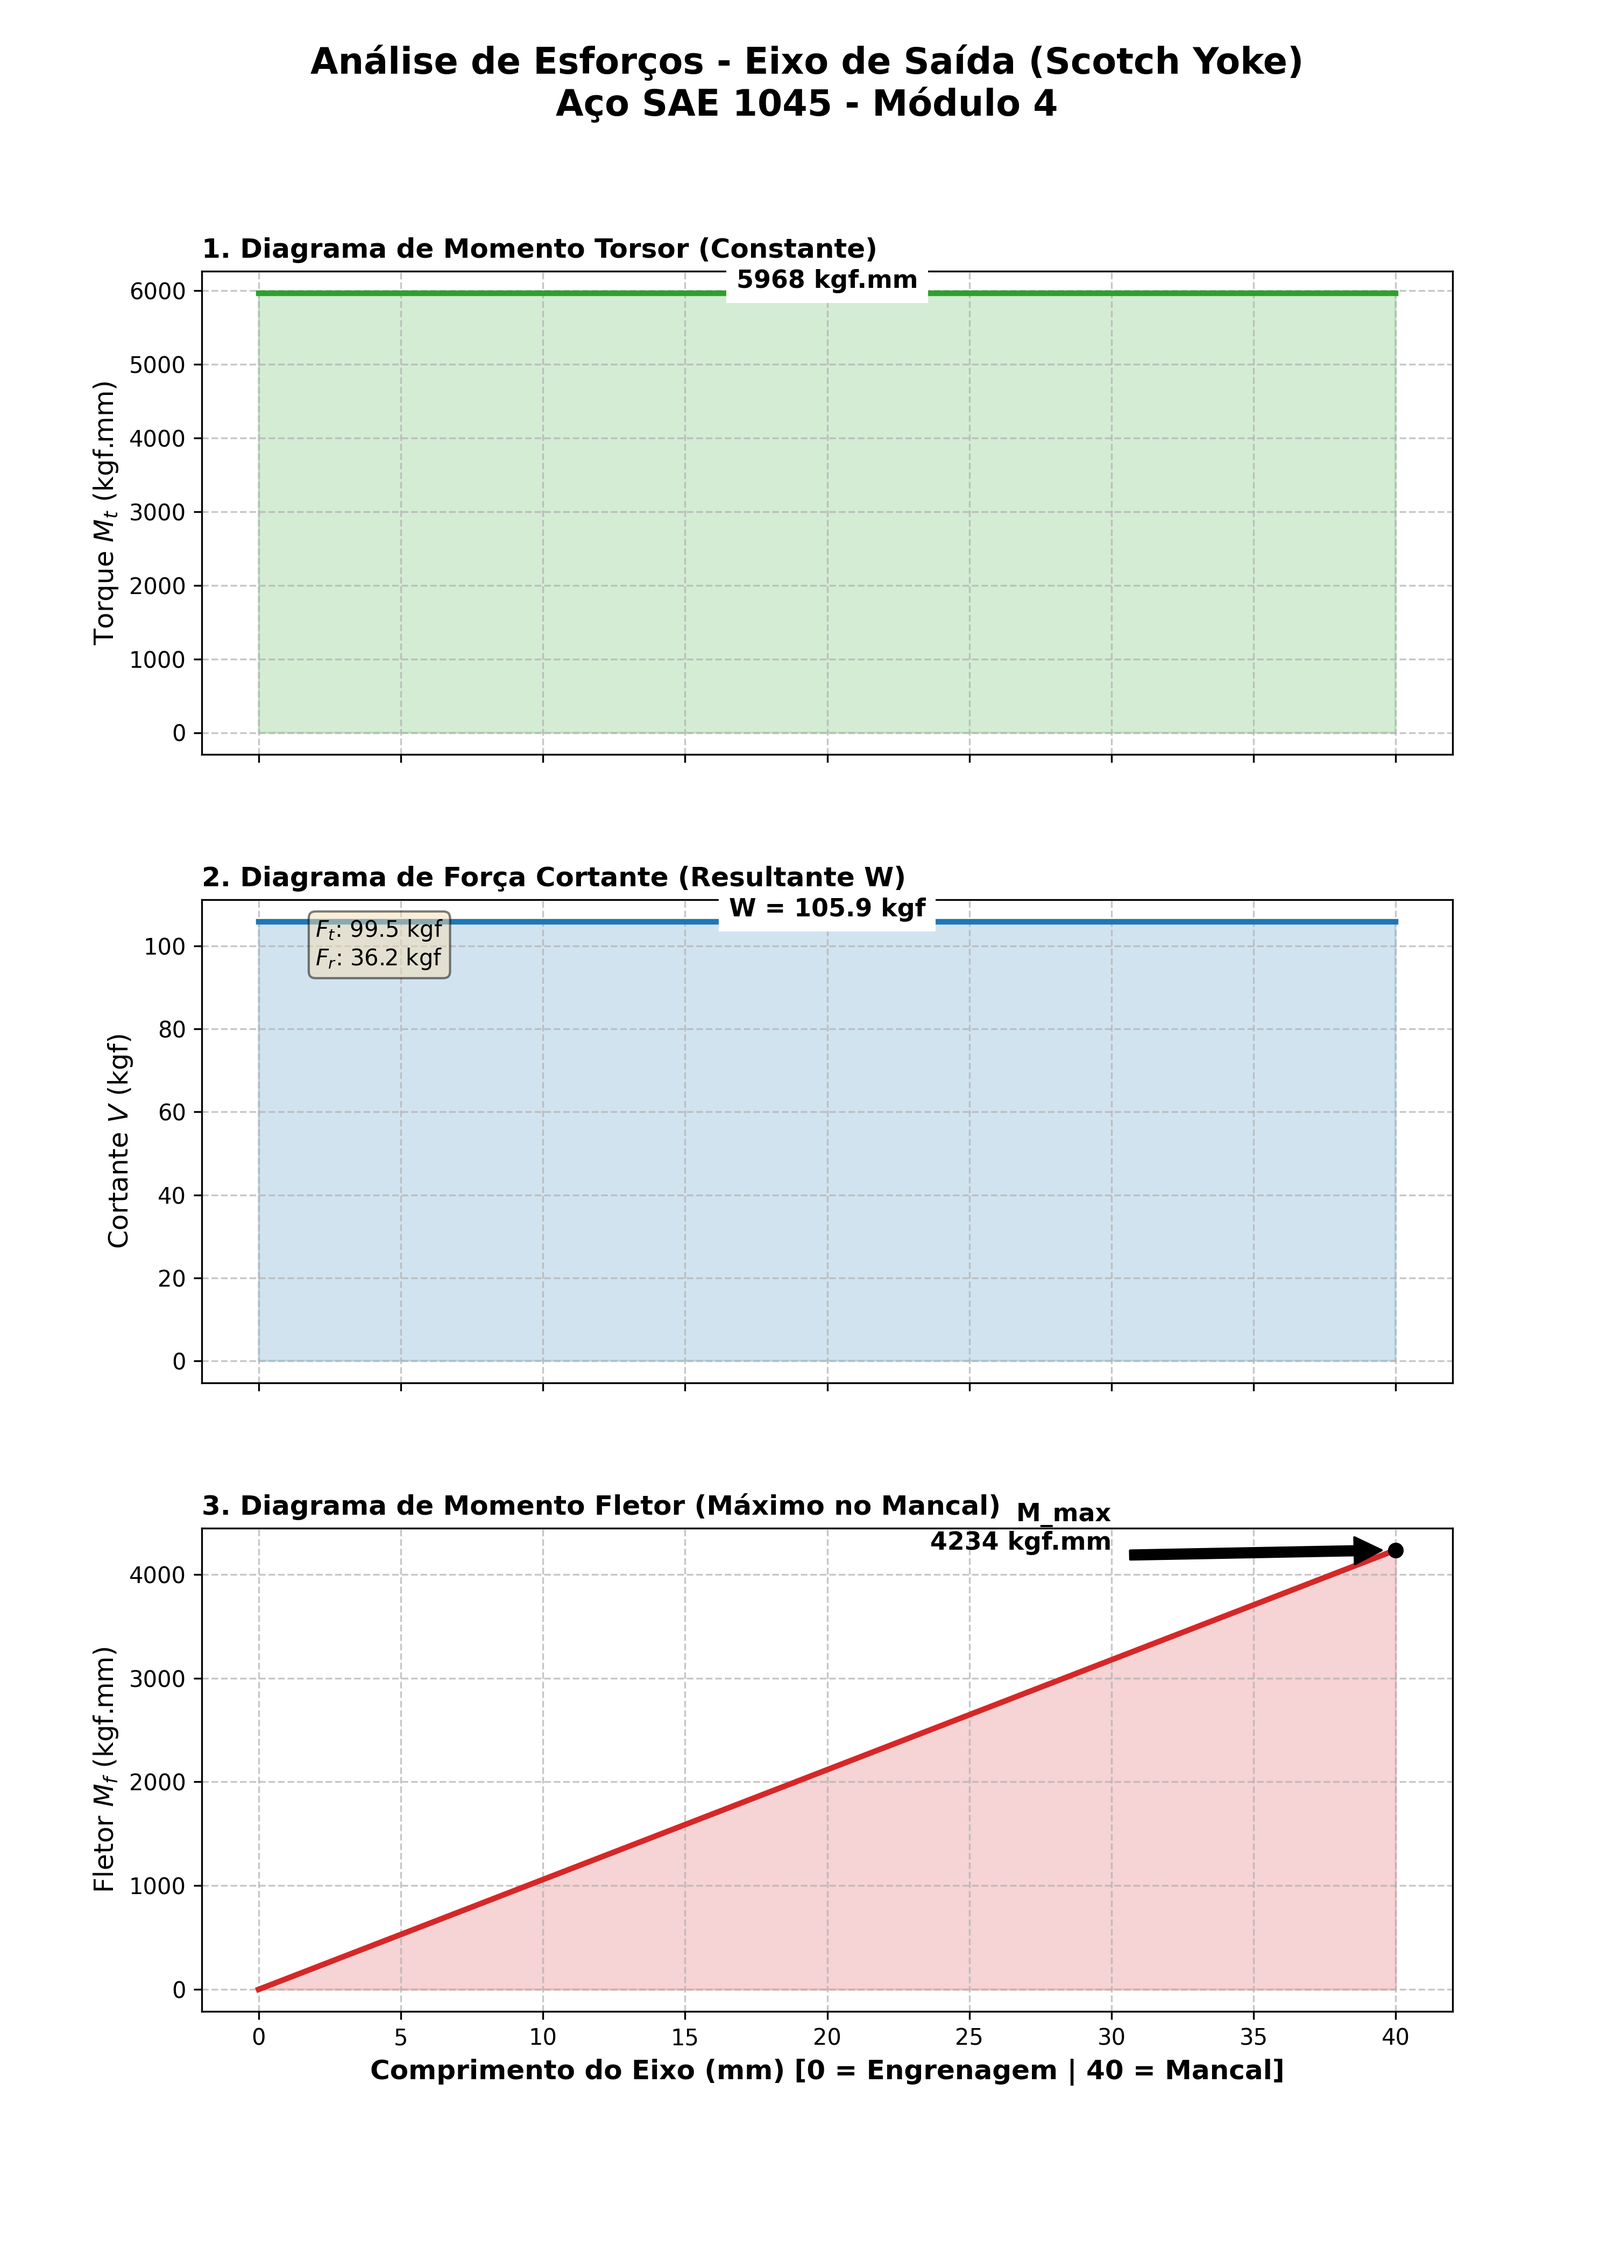
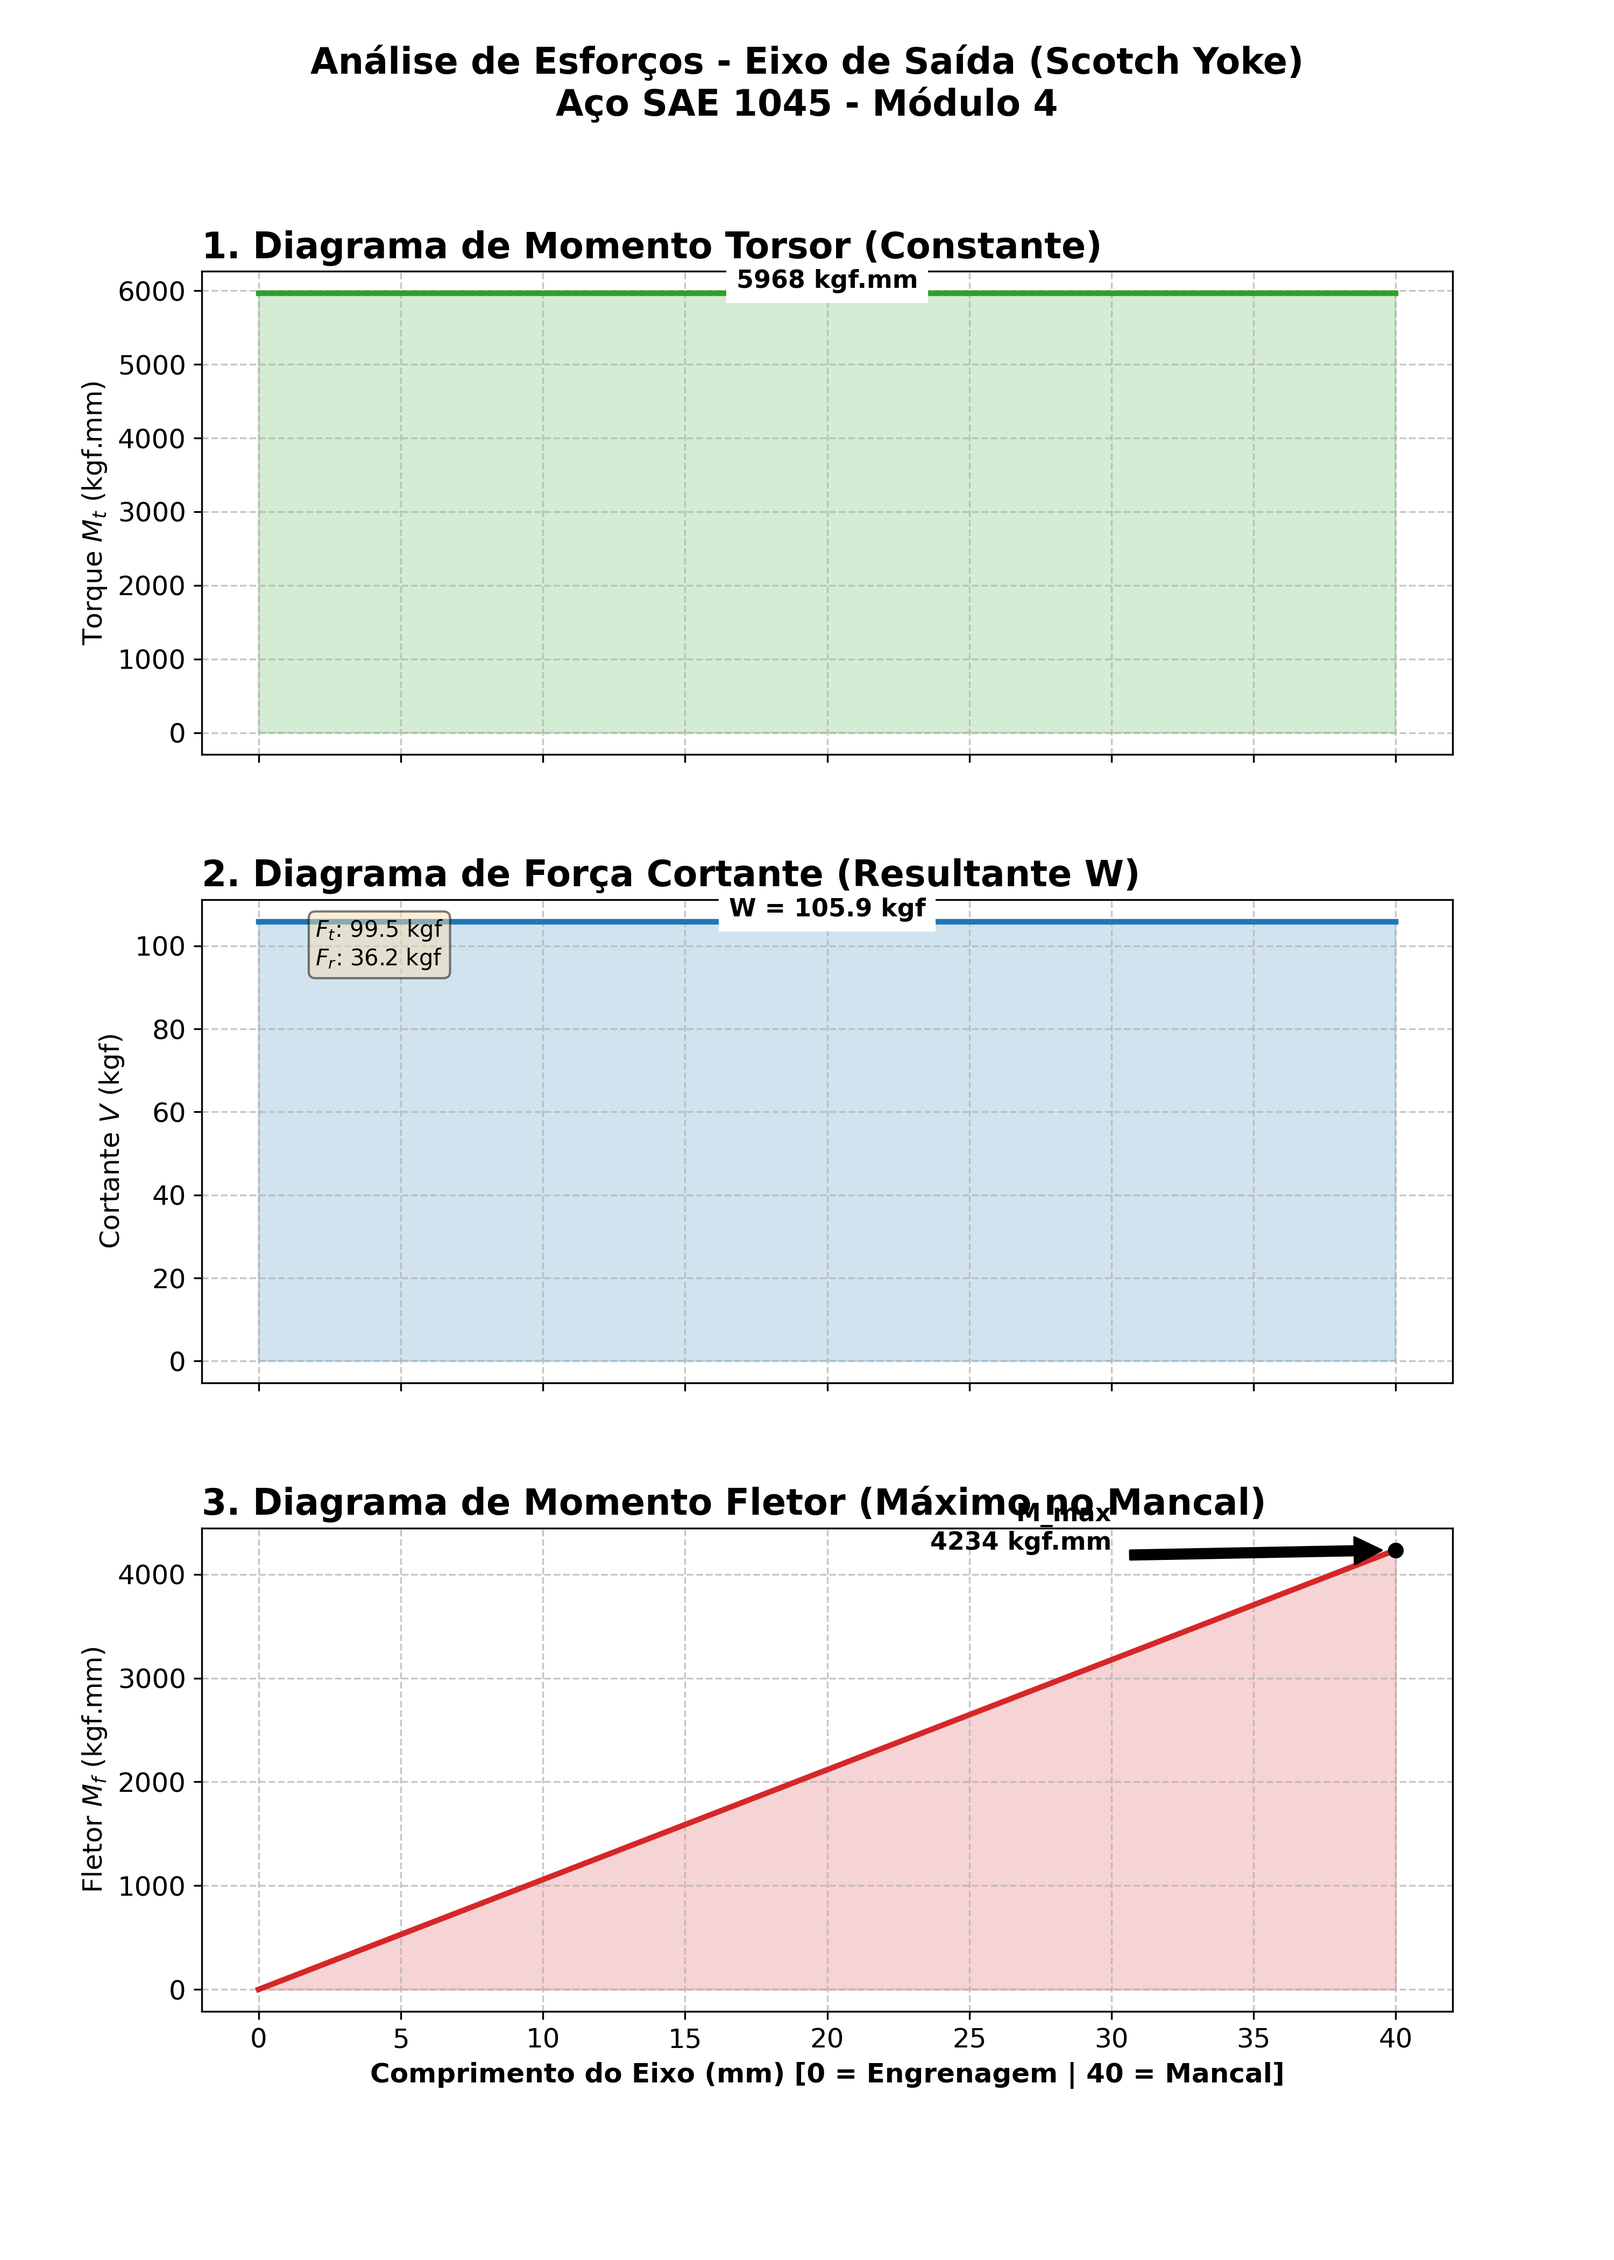
mofiquei legendas

diff --git a/diagramaEM.py b/diagramaEM.py
@@ -48,6 +48,22 @@ y_torque = np.full_like(x, Torque)          # Torque constante ao longo do eixo
 y_shear = np.full_like(x, F_resultante)     # Cortante constante (Carga Pontual)
 y_moment = F_resultante * x                 # Momento linear (0 na ponta, Max no apoio)
 
+# ==============================================================================
+# CONFIGURAÇÃO DE PLOTAGEM PARA ARTIGOS (Duas Colunas)
+# ==============================================================================
+# Aumenta o tamanho de tudo para ficar legível quando o LaTeX reduzir a imagem
+plt.rcParams.update({
+    'font.size': 14,          # Fonte base bem maior
+    'axes.titlesize': 16,     # Títulos maiores
+    'axes.labelsize': 14,     # Eixos X e Y maiores
+    'xtick.labelsize': 12,    # Números do eixo X
+    'ytick.labelsize': 12,    # Números do eixo Y
+    'legend.fontsize': 12,    # Legenda maior
+    'lines.linewidth': 2.5,   # Linhas do gráfico mais grossas
+    'grid.linewidth': 0.8,    # Grade mais visível
+    'figure.figsize': (10, 6) # Tamanho (largura, altura) em polegadas
+})
+
 # --- 4. PLOTAGEM DOS DIAGRAMAS ---
 fig, (ax1, ax2, ax3) = plt.subplots(3, 1, figsize=(10, 14), sharex=True)
 plt.subplots_adjust(hspace=0.3)
